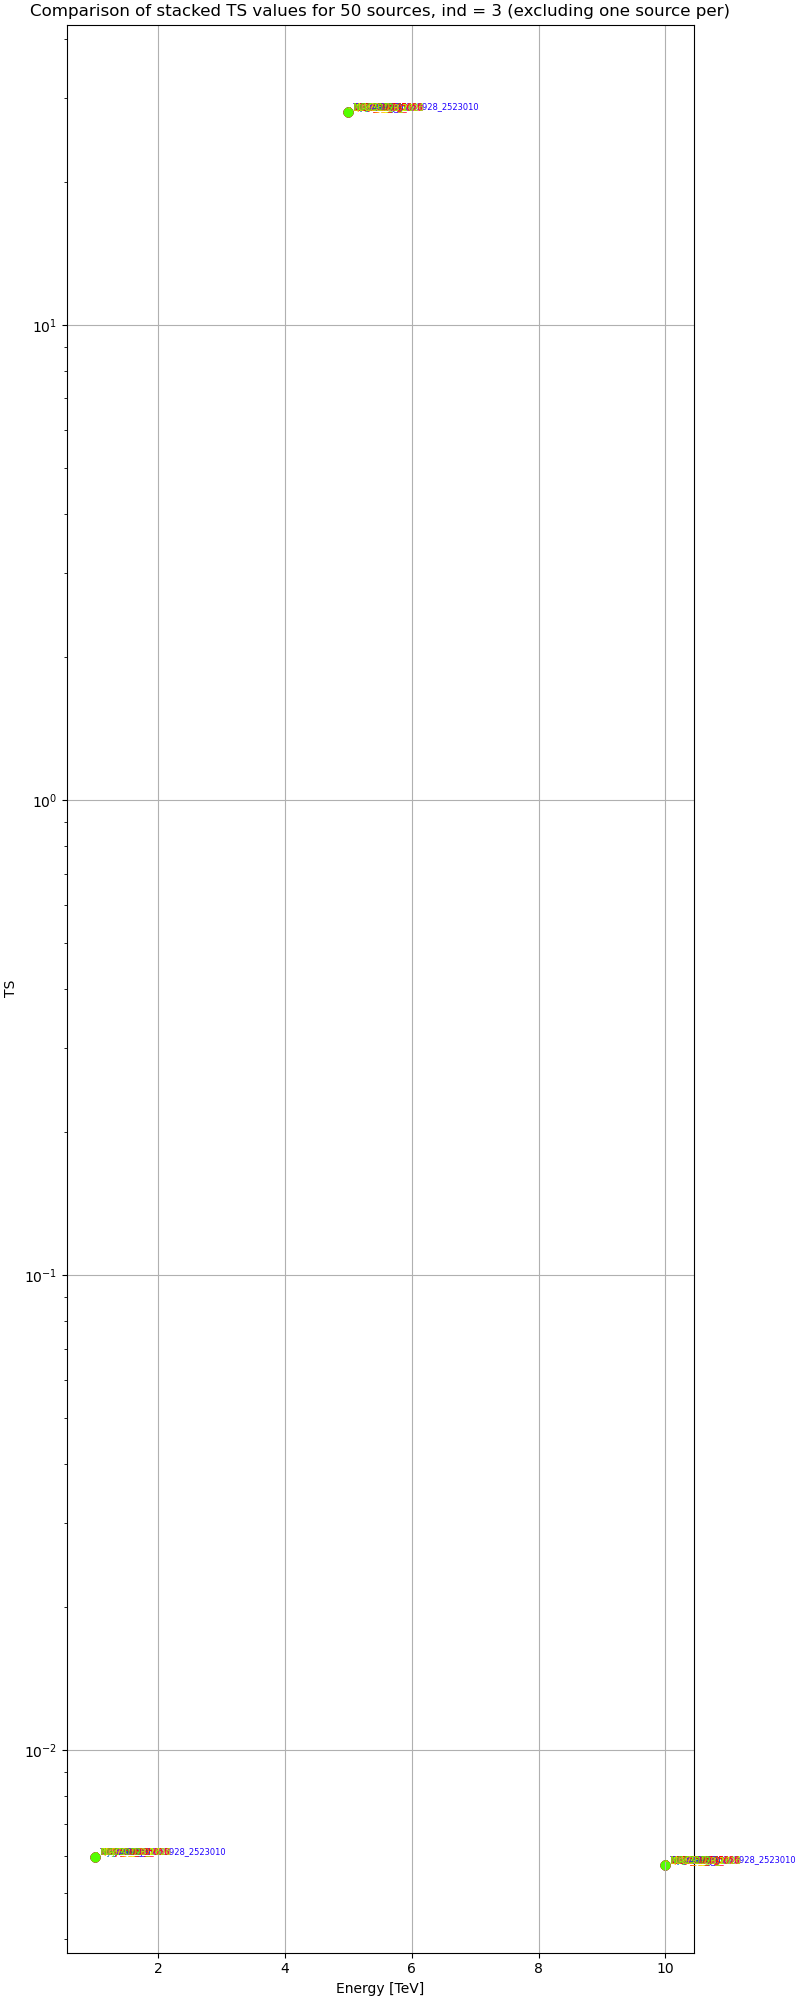
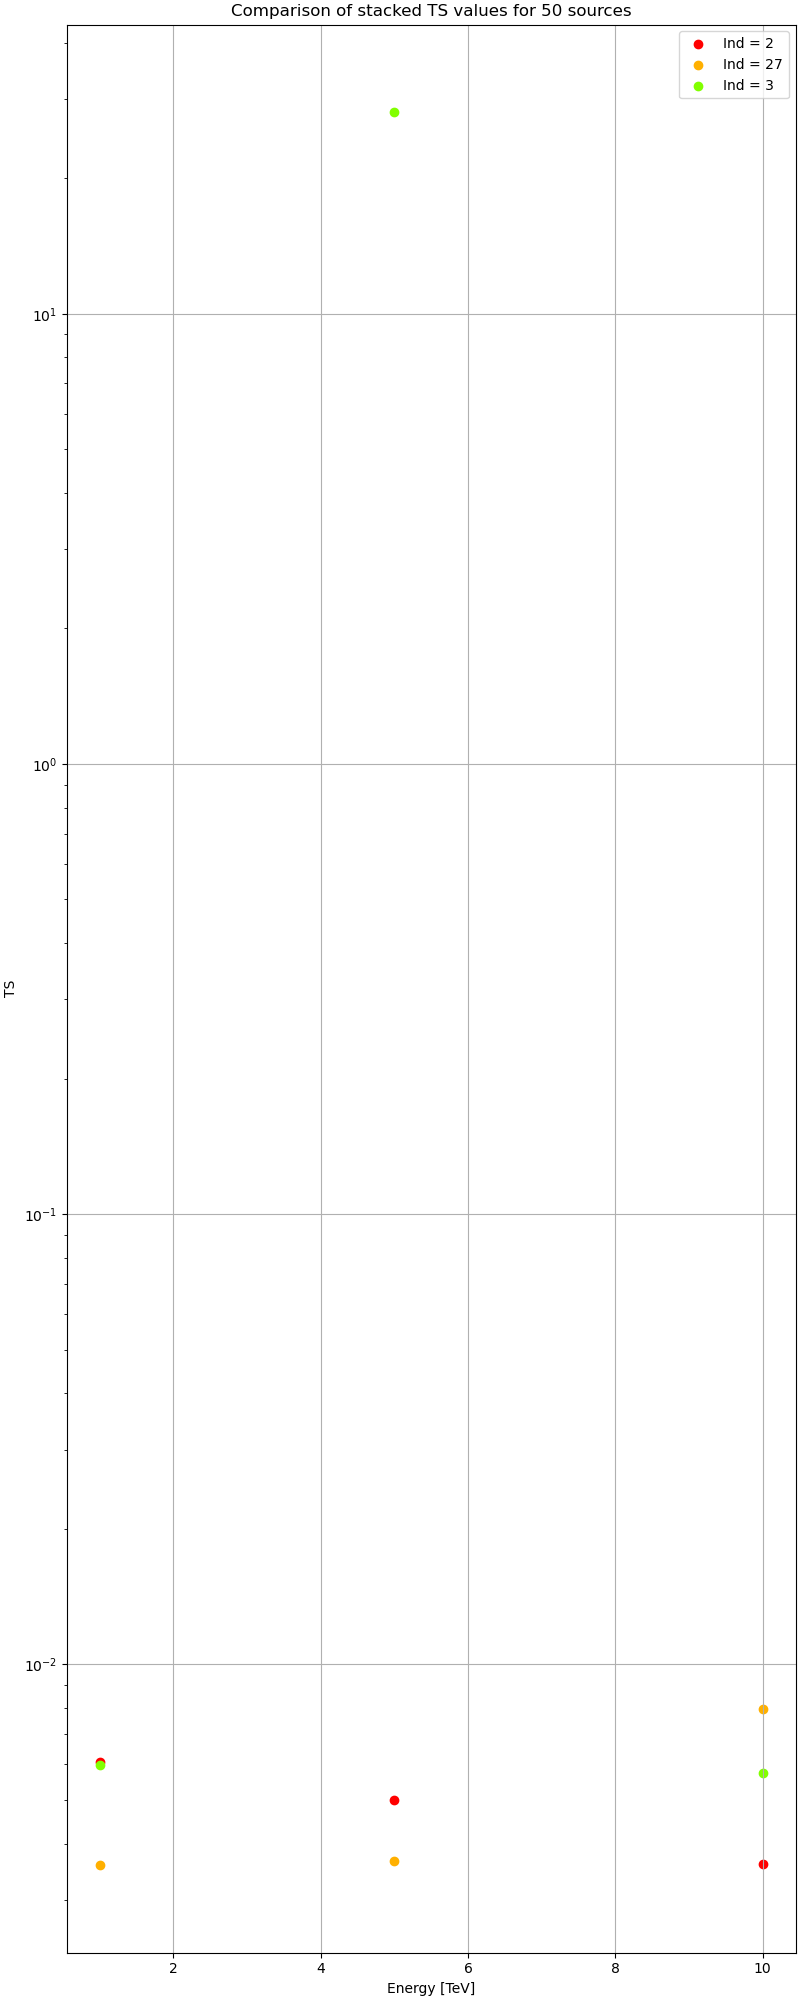
plotting

diff --git a/ptSource-ind3-14-195keV/plot_ts_pivot.py b/ptSource-ind3-14-195keV/plot_ts_pivot.py
@@ -12,13 +12,14 @@ df = {}
 begin_TS = np.array([-0.020819783210754395,-0.022848963737487793,-0.02813541889190674])
 
 pivot = np.array([1.0,5.0,10.0])  # TeV
-ind = '3'
+#ind = '3'
 
 plt.figure(layout='constrained',figsize=(8,20))
-#ix = ['2','27','3']
+ix = ['2','27','3']
 c = cm.prism(np.linspace(0,1,len(sourceName)))
 
-for name in sourceName:
+#for name in sourceName:
+for ind in ix:
     ts_values = []
     pivots    = []
 
@@ -29,22 +30,24 @@ for name in sourceName:
             pivots.append(float(row['pivot']))
             ts_values.append(float(row['TS']))
     ts_values = np.array(ts_values)
-    df[name] = {
+    df[ind] = {
+    #df[name] = {
           'pivot': pivots,
           "ts": ts_values-begin_TS,
     }
     
-for i, name in enumerate(sourceName):
-    plt.scatter(pivot,df[name]['ts'],color=c[i],label=f"Excluding {name}")
-    for x,y in zip(df[name]['pivot'],df[name]['ts']):
-        plt.text(x,y,f"- {name}",fontsize=6,color=c[i],ha='left',va='bottom')
+#for i, name in enumerate(sourceName):
+for i, ind in enumerate(ix):
+    plt.scatter(pivot,df[ind]['ts'],color=c[i],label=f"Ind = {ind}")#"Excluding {name}")
+    #for x,y in zip(df[name]['pivot'],df[name]['ts']):
+    #    plt.text(x,y,f"- {name}",fontsize=6,color=c[i],ha='left',va='bottom')
 
 
 plt.xlabel("Energy [TeV]")
 plt.ylabel("TS")
 plt.yscale('log')
-#plt.legend()
+plt.legend()
 plt.grid()
-plt.title(f"Comparison of stacked TS values for 50 sources, ind = {ind} (excluding one source per)")
-plt.savefig(f"mod_nopiv_ts_comp_50_ix{ind}.png")
+plt.title(f"Comparison of stacked TS values for 50 sources")#, ind = {ind} (excluding one source per)")
+plt.savefig(f"mod_nopiv_ts_comp_50.png")
 plt.close()
